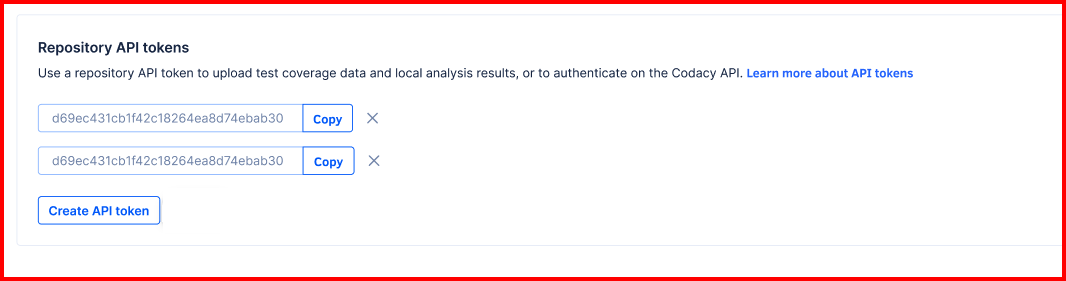
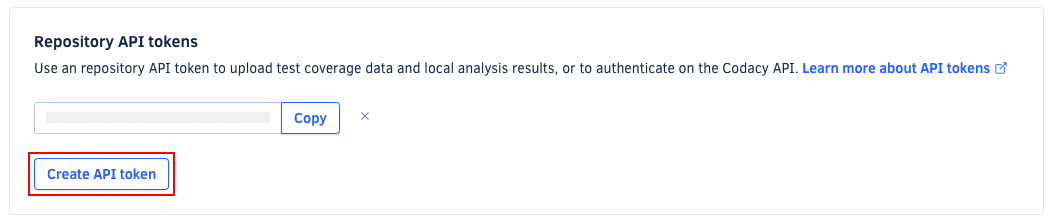
feat: Update repository token screenshot; formatting tweak

Changed region(s): [[0.0, 0.0, 1.0, 1.0]]

diff --git a/docs/codacy-api/api-tokens.md b/docs/codacy-api/api-tokens.md
@@ -49,9 +49,9 @@ You can create new repository API tokens programmatically [using the Codacy API]
     !!! tip
         You can create multiple (up to 100) API tokens per repository. This can be useful to have a more flexible control by revoking only a specific token.
 
-    ![Creating a repository API token](images/codacy-api-tokens-repository.png)<!--TODO CY-6642 Update screenshot-->
+    ![Creating a repository API token](images/codacy-api-tokens-repository.png)
 
-To revoke a repository API token, click the "X" next to the token. After this, all applications or services using that token to access the Codacy API will fail to authenticate and will receive the reply `{"error":"not found"}`.
+To revoke a repository API token, click the **X** next to the token. After this, all applications or services using that token to access the Codacy API will fail to authenticate and will receive the reply `{"error":"not found"}`.
 
 ## See also
 
